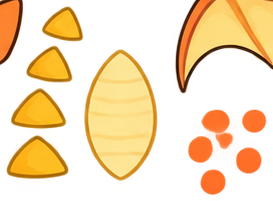
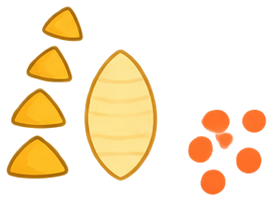
Fragments: light only their own part, with a sound and a fly-in
Three problems with the fossil hunt, and a fourth found on the way.

One fragment filled the whole slot. Each found part was being pasted
over the ghost as a full-size cut-out, so a single head read as a
finished dinosaur. The slot now reveals REGIONS of the assembled
picture instead: every part carries an inset box saying where it sits
on the whole animal, and finding it un-greys exactly that box. The
loose cut-outs are drawn at their own angles on the sheet, which is why
they still serve as the fragments out in the world but not here.

Collecting was silent and had no animation. There is now a bone-knock
plus a chime that climbs a pentatonic step per fragment, so the set
audibly fills up, and a separate flourish when the skeleton completes.
The piece bursts centre-screen and flies to the corner slot — the same
two beats the ability unlock uses, so both collectables behave alike.
The reveal card waits for the last fragment to land before covering it.

Slicing bug: the assembled T-Rex had two stray back-spikes in it. The
crop was a bounding box, and those pieces sit inside the dinosaur's box
on the sheet. Extraction is masked by flood-fill label now, so a crop
keeps only its own component — that removed 2.7k stray pixels from the
T-Rex and up to 6.8k from the pterosaur's parts.

Also fixes the header: the topbar is a three-column grid, so adding
Upload as a fourth child pushed the profile area onto its own row.
[…]

Changed region(s): [[0.6154, 0.0, 1.0, 0.4776], [0.0, 0.0, 0.0879, 0.3284]]

diff --git a/components/world/DinoPanel.tsx b/components/world/DinoPanel.tsx
@@ -1,13 +1,21 @@
 "use client";
 
-import { ACTIVE_DINO, DINOS, useDinoStore } from "./dinoStore";
+import { useEffect, useState } from "react";
+import { ACTIVE_DINO, DINOS, useDinoStore, type DinoPartId } from "./dinoStore";
+import { playDinoComplete, playFragment } from "./sfx";
+
+/** `clip` is an inset box in percent; CSS wants the same four numbers. */
+const insetOf = (clip: [number, number, number, number]) =>
+  `inset(${clip[0]}% ${clip[1]}% ${clip[2]}% ${clip[3]}%)`;
 
 /**
  * The dinosaur, sitting to the LEFT of the power slots.
  *
- * The whole animal shows from the start as a flat grey ghost — so a player
- * can see there is something to rebuild — and each fragment found paints
- * its own piece back in over the top.
+ * The assembled animal shows from the start as a flat grey ghost, and each
+ * fragment found un-greys ITS OWN REGION of that picture — so one head
+ * lights up a head, not a whole dinosaur. The loose cut-outs are drawn at
+ * their own angles on the sheet, which is why they are used for the
+ * fragments out in the world but not here.
  */
 export function DinoOutline() {
   const found = useDinoStore((s) => s.found);
@@ -17,7 +25,8 @@ export function DinoOutline() {
 
   return (
     <div
-      className="flex h-[62px] w-[62px] shrink-0 flex-col items-center justify-center gap-0.5 rounded-xl ring-2 transition-colors"
+      id="dino-slot"
+      className="flex h-[62px] w-[62px] shrink-0 flex-col items-center justify-center gap-0.5 rounded-xl ring-2 ring-transparent transition-colors"
       style={{
         background: started ? "rgba(248,250,252,0.95)" : "rgba(226,232,240,0.7)",
         boxShadow: started ? `0 0 12px ${dino.color}55` : undefined,
@@ -28,27 +37,21 @@ export function DinoOutline() {
           : "Find a fossil fragment to start"
       }
     >
-      <span className="relative block h-8 w-9">
-        {/* Grey ghost of the whole animal, always there. */}
+      <span className="relative block h-9 w-10">
         <img
           src={dino.whole}
           alt=""
-          className="absolute inset-0 h-full w-full object-contain opacity-45"
-          style={{ filter: "grayscale(1) brightness(0.75)" }}
+          className="absolute inset-0 h-full w-full object-contain opacity-40"
+          style={{ filter: "grayscale(1) brightness(0.7)" }}
         />
-        {/* Each found fragment paints back in, laid over the ghost. */}
-        {dino.parts.map((part, i) =>
+        {dino.parts.map((part) =>
           found.includes(part.id) ? (
             <img
               key={part.id}
-              src={part.src}
+              src={dino.whole}
               alt=""
-              className="absolute h-full w-full object-contain"
-              // Fanned very slightly so overlapping pieces stay legible at
-              // 36px — they are separate cut-outs, not a jigsaw that aligns.
-              style={{
-                transform: `translate(${(i % 3) - 1}px, ${((i / 3) | 0) - 0.5}px) scale(0.9)`,
-              }}
+              className="absolute inset-0 h-full w-full object-contain"
+              style={{ clipPath: insetOf(part.clip) }}
             />
           ) : null,
         )}
@@ -63,12 +66,92 @@ export function DinoOutline() {
   );
 }
 
+/**
+ * Fragment pickup feedback: the piece bursts centre-screen, then flies to
+ * the dinosaur slot in the corner — the same two beats the ability unlock
+ * uses, so both collectables behave the same way.
+ */
+export function DinoPickup() {
+  const pending = useDinoStore((s) => s.pending);
+  const found = useDinoStore((s) => s.found);
+  const [phase, setPhase] = useState<"burst" | "fly" | null>(null);
+  const current: DinoPartId | null = pending[0] ?? null;
+  const dino = DINOS[ACTIVE_DINO];
+
+  useEffect(() => {
+    if (!current) return;
+    const index = dino.parts.findIndex((p) => p.id === current);
+    const complete = found.length >= dino.parts.length;
+    if (complete) playDinoComplete();
+    else playFragment(Math.max(index, found.length - 1), dino.parts.length);
+    setPhase("burst");
+    const toFly = setTimeout(() => setPhase("fly"), 750);
+    const done = setTimeout(() => {
+      setPhase(null);
+      useDinoStore.getState().shiftPending();
+    }, 1350);
+    return () => {
+      clearTimeout(toFly);
+      clearTimeout(done);
+    };
+    // `found` is read for the completion check only; re-running on it would
+    // replay the cue when a later fragment lands.
+    // eslint-disable-next-line react-hooks/exhaustive-deps
+  }, [current]);
+
+  if (!current) return null;
+  const part = dino.parts.find((p) => p.id === current);
+  if (!part) return null;
+
+  return (
+    <div className="pointer-events-none absolute inset-0 z-20">
+      <style>{`
+        @keyframes frag-burst {
+          0% { transform: scale(0.3) rotate(-14deg); opacity: 0; }
+          45% { transform: scale(1.15) rotate(6deg); opacity: 1; }
+          100% { transform: scale(1) rotate(0deg); opacity: 1; }
+        }
+        @keyframes frag-fly {
+          0% { top: 50%; left: 50%; transform: translate(-50%, -50%) scale(1); opacity: 1; }
+          100% { top: 17%; left: 74%; transform: translate(-50%, -50%) scale(0.18); opacity: 0.25; }
+        }
+      `}</style>
+      <div
+        className="absolute top-1/2 left-1/2"
+        style={
+          phase === "fly"
+            ? { animation: "frag-fly 0.6s ease-in forwards" }
+            : { transform: "translate(-50%, -50%)" }
+        }
+      >
+        <div
+          className="flex flex-col items-center gap-2 rounded-3xl bg-white/95 px-7 py-5 shadow-2xl"
+          style={{
+            border: `4px solid ${dino.color}`,
+            animation: phase === "burst" ? "frag-burst 0.7s ease-out" : undefined,
+          }}
+        >
+          <img src={part.src} alt="" className="h-24 w-auto object-contain" />
+          <span className="text-base font-black text-slate-800">
+            {part.label} found!
+          </span>
+          <span className="text-xs font-bold" style={{ color: dino.color }}>
+            {found.length}/{dino.parts.length} fragments
+          </span>
+        </div>
+      </div>
+    </div>
+  );
+}
+
 /** The full-screen reveal once every fragment is in. */
 export function DinoReveal() {
   const revealed = useDinoStore((s) => s.revealed);
+  const pending = useDinoStore((s) => s.pending);
   const dismiss = useDinoStore((s) => s.dismissReveal);
   const dino = DINOS[ACTIVE_DINO];
-  if (!revealed) return null;
+  // Let the last fragment finish flying home before the card covers it.
+  if (!revealed || pending.length > 0) return null;
 
   return (
     <div className="pointer-events-auto absolute inset-0 z-30 flex items-center justify-center bg-slate-900/55 backdrop-blur-sm">

diff --git a/components/world/dinoStore.ts b/components/world/dinoStore.ts
@@ -28,8 +28,18 @@ export type DinoPart = {
   id: DinoPartId;
   /** Shown on the fragment in the world and in the found list. */
   label: string;
-  /** Sliced artwork under /public/dino. */
+  /** Sliced artwork under /public/dino, used on the fragment in the world. */
   src: string;
+  /**
+   * Where this part sits on the assembled animal, as inset percentages
+   * (top, right, bottom, left) of the `whole` image.
+   *
+   * The HUD reveals REGIONS of the assembled picture rather than pasting
+   * the loose cut-outs over it: the sheet draws each piece at its own angle,
+   * so overlaying them made one fragment look like a finished dinosaur.
+   * Clipping the real artwork means a found head lights up exactly the head.
+   */
+  clip: [top: number, right: number, bottom: number, left: number];
 };
 
 export type Dino = {
@@ -55,12 +65,12 @@ export const DINOS: Record<DinoId, Dino> = {
     blurb:
       "The heaviest hunter that ever walked. Twelve metres nose to tail — about as long as this building is tall — with a bite that could crack bone, and arms so short it could not reach its own mouth.",
     parts: [
-      { id: "head", label: "Head", src: "/dino/trex-head.png" },
-      { id: "body", label: "Body", src: "/dino/trex-body.png" },
-      { id: "arms", label: "Arms", src: "/dino/trex-arms.png" },
-      { id: "legs", label: "Legs", src: "/dino/trex-legs.png" },
-      { id: "tail", label: "Tail", src: "/dino/trex-tail.png" },
-      { id: "markings", label: "Spots", src: "/dino/trex-markings.png" },
+      { clip: [0, 48, 58, 0], id: "head", label: "Head", src: "/dino/trex-head.png" },
+      { clip: [30, 28, 20, 22], id: "body", label: "Body", src: "/dino/trex-body.png" },
+      { clip: [48, 52, 32, 22], id: "arms", label: "Arms", src: "/dino/trex-arms.png" },
+      { clip: [66, 26, 0, 22], id: "legs", label: "Legs", src: "/dino/trex-legs.png" },
+      { clip: [38, 0, 22, 66], id: "tail", label: "Tail", src: "/dino/trex-tail.png" },
+      { clip: [8, 14, 30, 40], id: "markings", label: "Spots", src: "/dino/trex-markings.png" },
     ],
   },
   ptero: {
@@ -72,12 +82,12 @@ export const DINOS: Record<DinoId, Dino> = {
     blurb:
       "Not a dinosaur at all, but a flying reptile that shared their sky. It steered with a bony crest on its head and hung from cliffs by its wing-claws, the way a bat hangs from a beam.",
     parts: [
-      { id: "head", label: "Head", src: "/dino/ptero-head.png" },
-      { id: "body", label: "Body", src: "/dino/ptero-body.png" },
-      { id: "arms", label: "Wings", src: "/dino/ptero-arms.png" },
-      { id: "legs", label: "Feet", src: "/dino/ptero-legs.png" },
-      { id: "tail", label: "Tail", src: "/dino/ptero-tail.png" },
-      { id: "markings", label: "Crest", src: "/dino/ptero-markings.png" },
+      { clip: [10, 56, 52, 0], id: "head", label: "Head", src: "/dino/ptero-head.png" },
+      { clip: [38, 34, 12, 30], id: "body", label: "Body", src: "/dino/ptero-body.png" },
+      { clip: [0, 6, 40, 24], id: "arms", label: "Wings", src: "/dino/ptero-arms.png" },
+      { clip: [70, 36, 0, 30], id: "legs", label: "Feet", src: "/dino/ptero-legs.png" },
+      { clip: [52, 0, 16, 74], id: "tail", label: "Tail", src: "/dino/ptero-tail.png" },
+      { clip: [4, 60, 66, 6], id: "markings", label: "Crest", src: "/dino/ptero-markings.png" },
     ],
   },
 };
@@ -87,26 +97,32 @@ export const ACTIVE_DINO: DinoId = "trex";
 
 type DinoState = {
   found: DinoPartId[];
+  /** Fragments waiting for their fly-to-the-corner animation. */
+  pending: DinoPartId[];
   /** True once every part is in and the reveal card is up. */
   revealed: boolean;
   collect: (id: DinoPartId) => void;
+  shiftPending: () => void;
   dismissReveal: () => void;
   restart: () => void;
 };
 
 export const useDinoStore = create<DinoState>((set, get) => ({
   found: [],
+  pending: [],
   revealed: false,
   collect: (id) => {
     if (get().found.includes(id)) return;
     const found = [...get().found, id];
     set({
       found,
+      pending: [...get().pending, id],
       revealed: found.length === DINOS[ACTIVE_DINO].parts.length,
     });
   },
+  shiftPending: () => set((s) => ({ pending: s.pending.slice(1) })),
   dismissReveal: () => set({ revealed: false }),
-  restart: () => set({ found: [], revealed: false }),
+  restart: () => set({ found: [], pending: [], revealed: false }),
 }));
 
 // Console debug hook, matching the project's __-prefixed convention.

diff --git a/components/world/sfx.ts b/components/world/sfx.ts
@@ -221,3 +221,33 @@ export function playWebZip() {
   thump(t, { freq: 500, sweepTo: 2200, dur: 0.24, gain: 0.05, q: 0.7 });
   blip(t + 0.22, 1200, { type: "triangle", dur: 0.07, gain: 0.07 });
 }
+
+/** Finding a fossil fragment: a hollow bone-y knock, then a bright chime.
+ *  Deliberately different from playPowerUp — a piece of a set, not a power. */
+export function playFragment(index: number, total: number) {
+  const c = audio();
+  if (!c) return;
+  const t = c.currentTime;
+  thump(t, { freq: 620, sweepTo: 240, dur: 0.13, gain: 0.09, q: 1.6 });
+  // The chime climbs a pentatonic step per fragment, so the set audibly
+  // fills up and the last one lands highest.
+  const steps = [523.25, 587.33, 659.25, 783.99, 880, 1046.5];
+  const note = steps[Math.min(index, steps.length - 1)];
+  blip(t + 0.04, note, { type: "triangle", dur: 0.2, gain: 0.12 });
+  blip(t + 0.06, note * 2, { type: "sine", dur: 0.14, gain: 0.05 });
+  if (index + 1 >= total) return; // the reveal fanfare takes over
+}
+
+/** The skeleton is complete: a longer rising flourish under the reveal card. */
+export function playDinoComplete() {
+  const c = audio();
+  if (!c) return;
+  const t = c.currentTime;
+  [392, 523.25, 659.25, 783.99, 1046.5].forEach((f, i) => {
+    blip(t + i * 0.09, f, { type: "triangle", dur: 0.26, gain: 0.13 });
+    blip(t + i * 0.09 + 0.02, f * 2, { type: "sine", dur: 0.16, gain: 0.05 });
+  });
+  [523.25, 659.25, 783.99, 1046.5].forEach((f) =>
+    blip(t + 0.5, f, { type: "sine", dur: 0.7, gain: 0.07 }),
+  );
+}

diff --git a/components/playground/playground.css b/components/playground/playground.css
@@ -103,7 +103,9 @@
   height: 78px;
   flex: 0 0 78px;
   display: grid;
-  grid-template-columns: 270px 1fr 270px;
+  /* Side columns are fixed so the centre pair stays optically centred
+     whatever the model name is; the centre grew when Upload joined it. */
+  grid-template-columns: 250px 1fr 250px;
   align-items: center;
   padding: 0 28px;
   background: rgba(255, 255, 255, 0.97);
@@ -1171,6 +1173,17 @@
 
 /* Upload + the model dropdown it feeds */
 .playground .model-status { position: relative; }
+/* Centre cell of the header grid: upload on the left, model picker on the
+   right, the pair centred as one unit. `justify-self: center` on the child
+   status block is dropped here — the wrapper does the centring now. */
+.playground .header-centre {
+  justify-self: center;
+  display: flex;
+  align-items: center;
+  gap: 14px;
+  min-width: 0;
+}
+.playground .header-centre .model-status { justify-self: auto; }
 .playground .upload-control { display: flex; align-items: center; }
 .playground .upload-button {
   display: inline-flex;

diff --git a/components/playground/ModelStage.tsx b/components/playground/ModelStage.tsx
@@ -10,7 +10,7 @@ import GestureTracker from "@/components/gesture/GestureTracker";
 import HeroHud from "@/components/world/HeroHud";
 import { AbilityEmblems } from "@/components/world/AbilityEmblems";
 import { DinoFragments } from "@/components/world/DinoFragments";
-import { DinoReveal } from "@/components/world/DinoPanel";
+import { DinoPickup, DinoReveal } from "@/components/world/DinoPanel";
 import { LaserTag } from "@/components/lasertag/LaserTag";
 import { LaserTagHud } from "@/components/lasertag/LaserTagHud";
 import { GesturePanel } from "./GesturePanel";
@@ -181,6 +181,7 @@ export function ModelStage() {
         {mode === "treasure" ? (
           <div className="hero-hud">
             <HeroHud />
+            <DinoPickup />
             <DinoReveal />
           </div>
         ) : null}

diff --git a/components/playground/TopBar.tsx b/components/playground/TopBar.tsx
@@ -68,8 +68,11 @@ export function TopBar() {
         </span>
       </a>
 
-      {/* Its own control, separate from the model picker beside it: one adds
-          a project, the other chooses between them. */}
+      {/* Centre column. Two separate controls — one adds a project, the other
+          chooses between them — but they share this cell, because the header
+          grid has exactly three columns and a fourth child would shove the
+          profile area out of its own. */}
+      <div className="header-centre">
       <div className="upload-control">
         <button
           type="button"
@@ -183,6 +186,8 @@ export function TopBar() {
             )}
           </div>
         ) : null}
+      </div>
+
       </div>
 
       <div className="profile-area">
